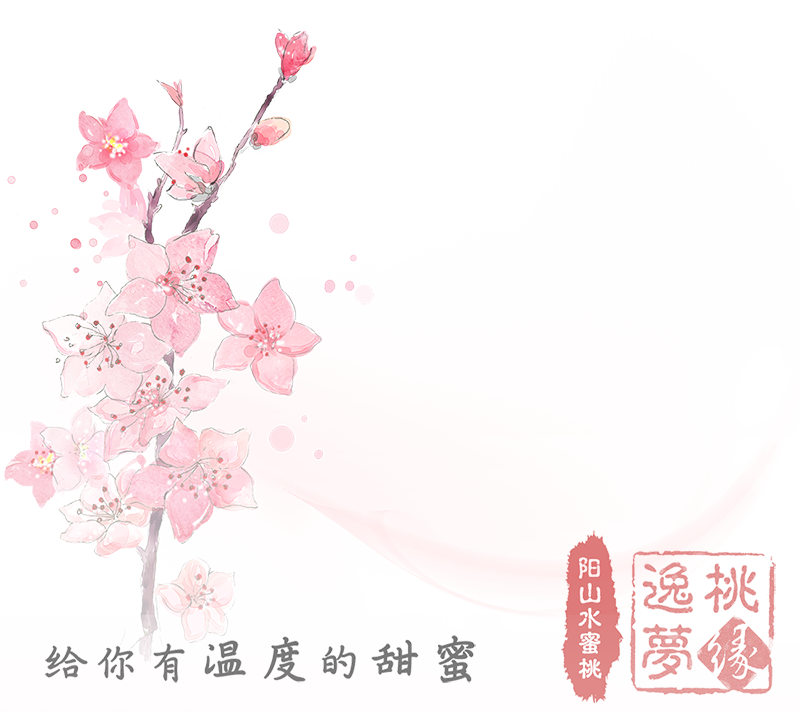
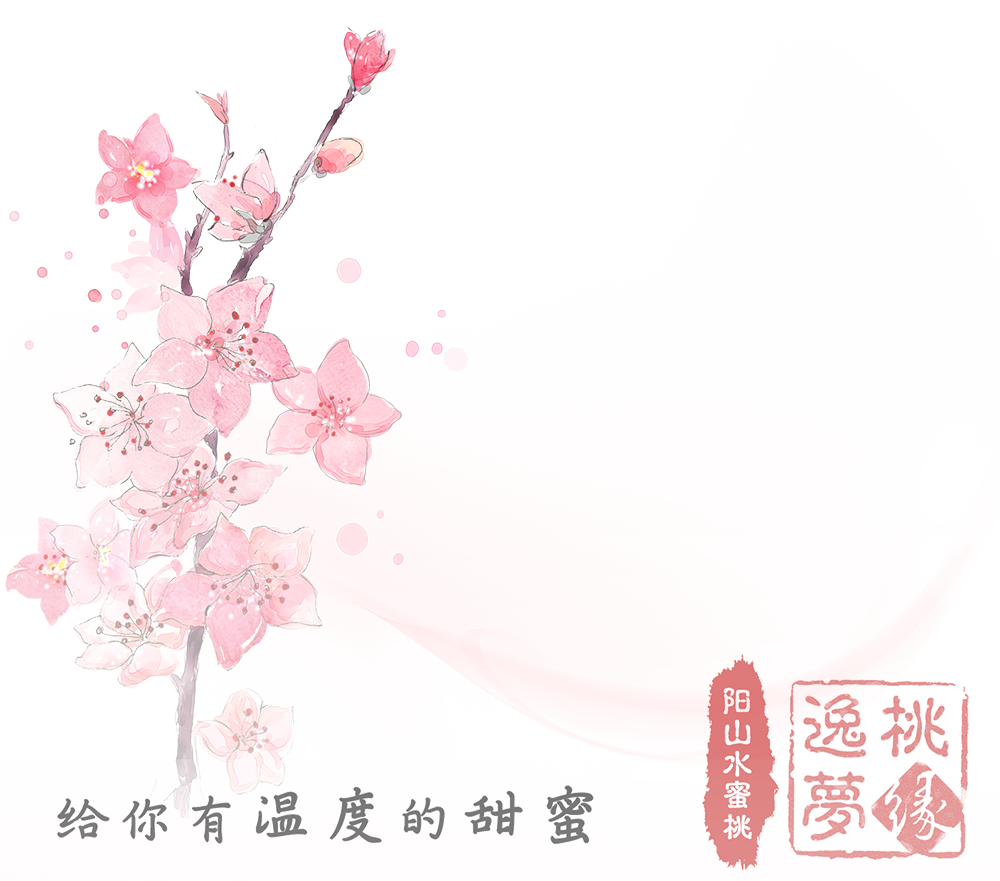
适配移动端

diff --git a/static/css/pages/index.css b/static/css/pages/index.css
@@ -1,34 +1,47 @@
 .generater{
 	/*text-align: center;*/
 	position: relative;
-	padding: 40px 50px 40px 50px;
-	font-size: 16px;
+	padding: 50px;
+	font-size: 18px;
 }
 .title-wrapper{
 	text-align: center;
 }
 .logo-title{
 	text-align: center;
-	margin-bottom: 40px;
+	margin-bottom: 70px;
+	width: 80%;
 }
 .follower{
 	position: absolute;
-	right: 20px;
+	right: 70px;
 	bottom: 20px;
+	opacity: 0.8;
 }
 .btn-wrapper{
 	text-align: center;
 	margin-top: 40px;
-	/*position: absolute;*/
+	margin-bottom: 50px;
+	position: relative;
+	height: 100px;
 
 }
 .btn{
 	padding: 10px 30px;
 	color: white;
 	background: #e1a5a5;
+	font-size: 20px;
+	cursor: pointer;
 	display: inline-block;
 	z-index: 300;
 	position: absolute;
+	left: 50%;
+	margin-left: -87px;
+
+}
+.upload-wrapper{
+	position: relative;
+	height: 200px;
 }
 .upload{
 	width: 150px;
@@ -36,10 +49,12 @@
 	background: #eee;
 	color: #a7a7a7;
 	border: solid 1px #d2d2d2;
+	cursor: pointer;
 	text-align: center;
 	line-height: 150px;
-	margin: 20px 0 0 20px;
-	/*position: relative;*/
+	margin: 30px 0 0 30px;
+	position: absolute;
+	z-index: 300;
 }
 .pre-pic{
 	width: 150px;
@@ -51,13 +66,48 @@
 textarea{
 	border: solid 1px #dcdcdc;
 	width: 100%;
-	padding: 10px;
-	height: 100px;
-	margin: 20px 0 40px 0px;
+	font-family: Microsoft JhengHei, Apple LiGothic Medium, STHeiti, SimHei;
+	font-size: 17px;
+	line-height: 32px;
+	padding: 5px 15px 0 15px;
+	height: 140px;
+	margin: 20px 0 60px 0px;
 	background: white;
 	z-index: 300;
 
 }
 textarea:focus{
 	outline: none;
+}
+
+@media screen and (max-width: 600px) {
+	.generater{
+		padding: 20px;
+		background: #fafafa;
+	}
+	.upload{
+		position: absolute;
+		left: 50%;
+		margin-left: -75px;
+		background: white;
+	}
+	.follower{
+		right: 0px;
+		width: 250px;
+		bottom: 140px;
+	}
+	.logo-title{
+		margin-bottom: 30px;
+	}
+	.text-count{
+		position: relative;
+  		top: 185px;
+	}
+	h4{
+		font-size: 0.9em;
+		color: #343434;
+	}
+	textarea{
+		margin: 20px 0 40px 0px;
+	}
 }

diff --git a/static/js/pages/index.js b/static/js/pages/index.js
@@ -76,9 +76,9 @@ function writeTextOnCanvas(ctx, lh, rw, text){
 	for(var i = 1; getTrueLength(text) > 0; i++){
 		var tl = cutString(text, rw);
 		if(i==1){
-			ctx.fillText(text.substr(0, tl).replace(/^\s+|\s+$/, ""), 80, i * lineheight + 730);
+			ctx.fillText(text.substr(0, tl).replace(/^\s+|\s+$/, ""), 80, i * lineheight + 900);
 		}else{
-			ctx.fillText(text.substr(0, tl).replace(/^\s+|\s+$/, ""), 40, i * lineheight + 730);
+			ctx.fillText(text.substr(0, tl).replace(/^\s+|\s+$/, ""), 40, i * lineheight + 900);
 		}
 		text = text.substr(tl);
 	}
@@ -105,27 +105,33 @@ jQuploadInput.bind('change',readFile)
 var theCanvas = document.getElementById("j-canvas");
 var context = theCanvas.getContext("2d");
 function draw(image){
-	theCanvas.width=800;
-	theCanvas.style.width = 400;
-	theCanvas.height = 1300;
-	theCanvas.style.height = 650;
+	theCanvas.width=1000;
+	theCanvas.style.width = 800;
+	theCanvas.height = 1536;
+	theCanvas.style.height = 1229;
 	theCanvas.style.margin = "auto";
+	var windowW = $(window).width();
+	if(windowW<600){
+		theCanvas.style.width = windowW*0.9;
+		theCanvas.style.height = 1229*windowW*0.9/800.0;
+		theCanvas.style.marginLeft = windowW*0.05;
+	}
 
 	context.fillStyle="#fff";
-	context.rect(0,0,800,1300);
+	context.rect(0,0,1000,1536);
 	// 绘制图像
 	context.fillStyle="#feebed";
-	context.roundRect(40, 20, 660, 660, 30).fill();
-	context.drawImage(image, 70, 50, 600, 600);
+	context.roundRect(70, 20, 860, 860, 35).fill();
+	context.drawImage(image, 105, 55, 790, 790);
 	//绘制背景
 	var bg = new Image();
     bg.src = "static/images/bg.png";
-	context.drawImage(bg, 0, 530, 800, 712);
+	context.drawImage(bg, 0, 600, 1000, 881);
 	//绘制文字
 	var content = jQcontent.val();
-	context.font="36px Georgia";
+	context.font="36px Microsoft JhengHei, Apple LiGothic Medium, STHeiti, SimHei";
 	context.fillStyle="#000";
-	writeTextOnCanvas(context, 40, 45, content);
+	writeTextOnCanvas(context, 60, 41, content);
 }
 
 

diff --git a/index.html b/index.html
@@ -13,10 +13,10 @@
 			<img class="logo-title" src="static/images/title.png">
 		</div>
 		<div>
-			<h4>你想对ta说：（请把字数控制在60-140之间噢！）<span class="fr" id="j-count"></span></h4>
+			<h4>你想对ta说：（请把字数控制在60-140之间噢！）<span class="fr text-count" id="j-count"></span></h4>
 			<textarea id="j-content"></textarea>		
 		</div>
-		<div>
+		<div class="upload-wrapper">
 			<h4>你和ta的记忆：（请上传正方形的照片噢！）</h4>
 			<div class="upload" id="j-upload-btn">点击上传图片</div>
 			<img class="hide pre-pic" id="j-pre-pic" src="">

diff --git a/static/css/basic/basic.css b/static/css/basic/basic.css
@@ -1,14 +1,21 @@
 body{
 	min-height: 100%;
 	position: relative;
-	font-size: 14px;
+	font-family: Microsoft JhengHei, Apple LiGothic Medium, STHeiti, SimHei;
+	font-size: 18px;
 	width: 100%;
-/*	background: #fafafa;*/
+	background: #fff;
 }
 html{
 	height: 100%;
 	max-width: 800px;
+	background: #fafafa;
 	margin: auto;
+}
+
+h4{
+	font-size: 18px;
+	font-weight: 500;
 }
 
 p{
@@ -17,10 +24,10 @@ p{
 input{
   -webkit-appearance: none;
   border-radius: 0;
-  font-size: 1em;  
+  font-size: 18px;  
 }
 input:focus{
-	font-size: 1em;
+	font-size: 18px;
 }
 
 .fl{
